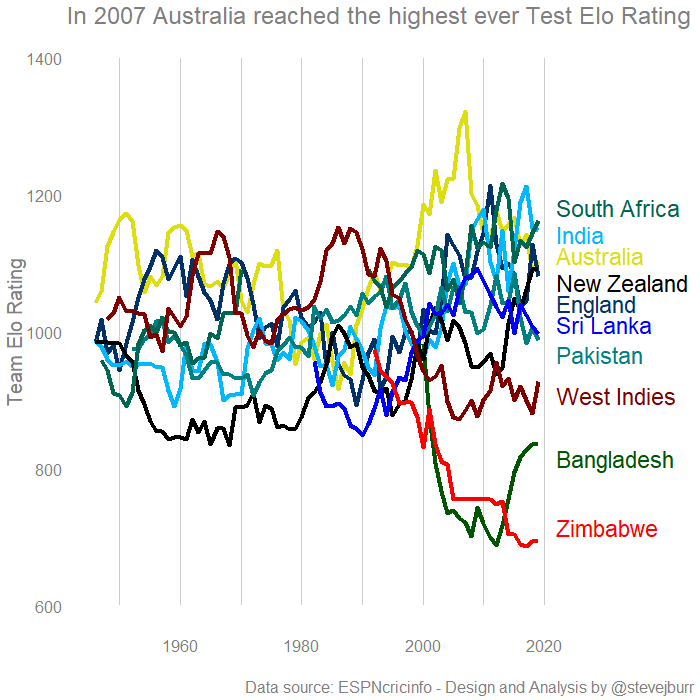
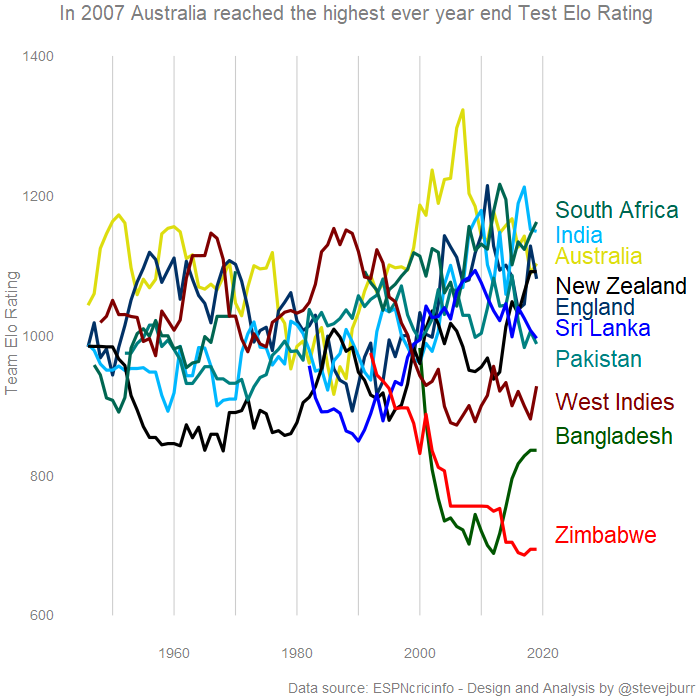
Updated cricket elo
Fixed anti-aliasing on line chart, added facetted line chart.

diff --git a/content/post/2019-02-04-home-advantage-in-test-cricket.md b/content/post/2019-02-04-home-advantage-in-test-cricket.md
@@ -21,7 +21,7 @@ The first thing I wanted to look at was whether or not the win rate of home team
 
 This graph was built from yearly data, the figures are simply the total number of tests won by the home and away teams divided by the total number of test matches played in that year. Throughout this post I've made heavy use of [loess](https://en.wikipedia.org/wiki/Local_regression), which is a type of regression, to produce smooth lines for the visualisations. I think this helps to make sense of trends in quite a messy dataset, but it is worth noting that the patterns you will see in the raw data are less clear than these summaries might suggest.
 
-As the thing we ultimately care about is "Home advantage" we can simplify this graph to only look at one variable. Thoughtout I'm going to consider home advantage to be the difference in win rate between the home team and the away team. So if the home team wins 50% of the time, and the away team 30% of the time then there's a home advantage of 20% points.
+As the thing we ultimately care about is "Home advantage" we can simplify this graph to only look at one variable. Throughout I'm going to consider home advantage to be the difference in win rate between the home team and the away team. So if the home team wins 50% of the time, and the away team 30% of the time then there's a home advantage of 20% points.
 
 ![Graph of home advantage in test cricket over time](/post/2019-02-04-home-advantage-in-test-cricket_files/home_advantage_simple.png)
 
@@ -47,7 +47,14 @@ If we calculate test cricket Elo ratings for major test playing nations since 19
 
 This suggests that India and South Africa are currently the best teams in the world and that England really should be doing better vs the West Indies. These ratings are not perfectly aligned to the [ICC Rankings](https://www.icc-cricket.com/rankings/mens/team-rankings/test), the top two teams are swapped and England stand out as being much lower here (though both approaches have England/New Zealand/Australia at very similar ratings).
 
-(Data viz aside - Really this is too many lines to have in one chart, and too many of the cricketting nations have very similar colour choices for their ODI kits making it hard to distinguish the lines here.)
+
+-----
+
+Data viz aside - Really this is too many lines to have in one chart, and too many of the cricketting nations have very similar colour choices for their ODI kits making it hard to distinguish the lines here. Perhaps this alternative is better?
+
+![Test Cricket Elo Ratings](/post/2019-02-04-home-advantage-in-test-cricket_files/test_cricket_elo_facet.png)
+
+-----
 
 Using this system, the difference in Elo rating between two teams allows us to calculate directly the probability of each side winning the game. Once we have that, we can get back to answering the original question of home advantage. Across each year, we can compare the difference in observed win rates for home teams compared to what we would expect based on the relative strengths of the two teams. 
 
